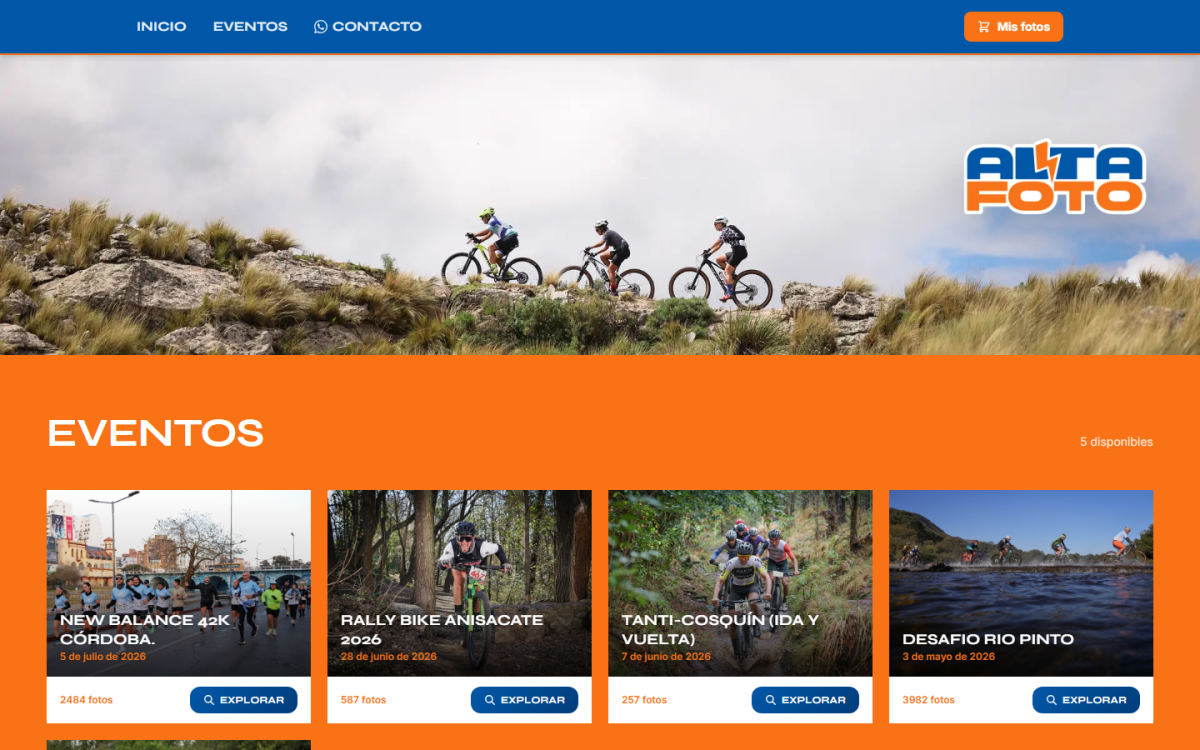
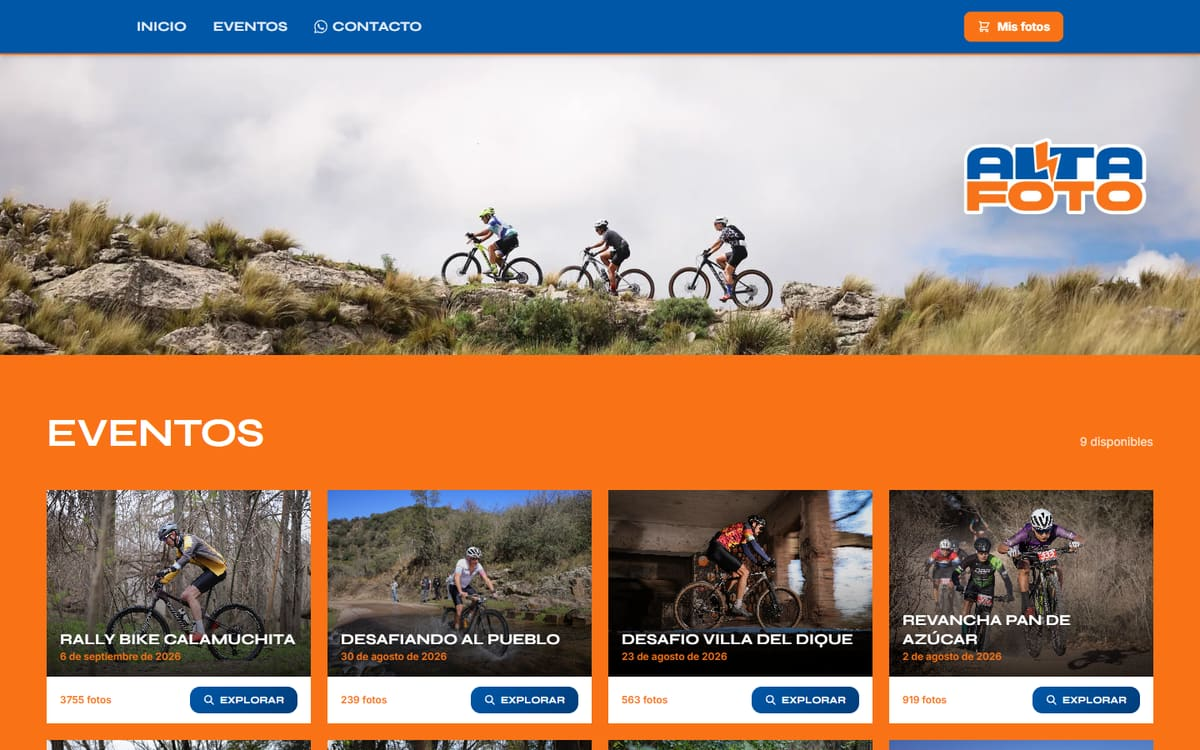
Smooth the project drawer and show each project's landing
The drawer opened with a short slide that stuttered and closed by
vanishing. It now slides in over 420ms on a decelerating curve and slides
out over 260ms before the dialog closes (useDrawerDialog sets
data-closing and waits for the panel's animationend). The pixel sky stops
drawing while a dialog is open, and a project's screenshot is decoded on
hover so it does not land mid-slide. The landing menu and the panel menu
share the same hook. Phones keep the instant open, as before.

Every project with a public landing now has a 1200x750 capture in
public/previews, so its drawer shows it; TapSur has none because it is
login-only. The Halley and Stealth Seller case cards show their landing
above the facts, and both case pages open with it (SiteShot).

diff --git a/src/app/page.tsx b/src/app/page.tsx
@@ -115,6 +115,7 @@ export default async function StudioLanding() {
   const cases = [
     {
       href: "/casos/halley",
+      shot: "/previews/halley-audiovisual.jpg",
       tag: s.caseHalleyTag,
       title: s.caseHalleyTitle,
       body: s.caseHalleyBody,
@@ -126,6 +127,7 @@ export default async function StudioLanding() {
     },
     {
       href: "/casos/stealth-seller",
+      shot: "/previews/stealth-seller.jpg",
       tag: s.caseSsTag,
       title: s.caseSsTitle,
       body: s.caseSsBody,
@@ -336,13 +338,28 @@ export default async function StudioLanding() {
                     <ArrowRight className="h-3.5 w-3.5" aria-hidden />
                   </span>
                 </div>
-                <div className="grid grid-cols-3 gap-px overflow-hidden border border-white/12 bg-white/10">
-                  {c.facts.map((f) => (
-                    <div key={f.label} className="bg-[#131313] p-3 sm:p-5">
-                      <p className="font-display text-xl font-medium tabular-nums text-[#0070F3] sm:text-2xl">{f.value}</p>
-                      <p className="mt-1 text-[11px] text-white/45">{f.label}</p>
-                    </div>
-                  ))}
+                {/* La página real del proyecto, tal como se ve hoy, con los
+                    datos debajo. El link ya se nombra con el título, así que
+                    la imagen no suma texto al lector de pantalla. */}
+                <div className="min-w-0 overflow-hidden border border-white/12 bg-[#131313]">
+                  <div className="overflow-hidden">
+                    <Image
+                      src={c.shot}
+                      alt=""
+                      width={1200}
+                      height={750}
+                      unoptimized
+                      className="block h-auto w-full transition-transform duration-500 ease-out group-hover:scale-[1.02] motion-reduce:transition-none"
+                    />
+                  </div>
+                  <div className="grid grid-cols-3 gap-px border-t border-white/12 bg-white/10">
+                    {c.facts.map((f) => (
+                      <div key={f.label} className="bg-[#131313] p-3 sm:p-5">
+                        <p className="font-display text-xl font-medium tabular-nums text-[#0070F3] sm:text-2xl">{f.value}</p>
+                        <p className="mt-1 text-[11px] text-white/45">{f.label}</p>
+                      </div>
+                    ))}
+                  </div>
                 </div>
               </Link>
             ))}

diff --git a/src/app/globals.css b/src/app/globals.css
@@ -292,23 +292,51 @@ dialog.mobile-nav-dialog::backdrop {
   background: rgb(0 0 0 / 0.8);
 }
 
-/* En DESKTOP (md+): fade del backdrop + slide del panel. */
+/* El scroll del panel no se pasa a la página de atrás al llegar al final. */
+dialog.mobile-nav-dialog > aside {
+  overscroll-behavior: contain;
+}
+
+/* En DESKTOP (md+): el panel entra deslizándose y sale igual.
+   - Entrada larga con curva que desacelera (la de las hojas de iOS): arranca
+     rápido y se asienta suave, en vez de frenar de golpe.
+   - Salida más corta y acelerando: el panel se va, no se arrastra.
+   - Sólo transform y opacity, en capa propia (translate3d + will-change):
+     la anima el compositor sin repintar el contenido.
+   - La salida la dispara data-closing, que pone useDrawerDialog antes de
+     llamar a close(). PixelBackdrop se pausa mientras haya un dialog
+     abierto para no competir por frames. */
 @media (min-width: 768px) {
   dialog.mobile-nav-dialog::backdrop {
-    background: rgb(0 0 0 / 0.7);
-    animation: mobile-nav-fade 240ms ease;
+    background: rgb(0 0 0 / 0.6);
+    animation: drawer-fade-in 420ms cubic-bezier(0.32, 0.72, 0, 1) both;
   }
   dialog.mobile-nav-dialog[open] > aside {
-    animation: mobile-nav-slide 280ms cubic-bezier(0.2, 0.7, 0.2, 1);
+    animation: drawer-slide-in 420ms cubic-bezier(0.32, 0.72, 0, 1) both;
+    will-change: transform;
+  }
+  dialog.mobile-nav-dialog[open][data-closing]::backdrop {
+    animation: drawer-fade-out 260ms cubic-bezier(0.3, 0, 0.8, 0.15) both;
+  }
+  dialog.mobile-nav-dialog[open][data-closing] > aside {
+    animation: drawer-slide-out 260ms cubic-bezier(0.3, 0, 0.8, 0.15) both;
   }
 }
-@keyframes mobile-nav-slide {
-  from { transform: translateX(100%); }
-  to   { transform: translateX(0); }
+@keyframes drawer-slide-in {
+  from { transform: translate3d(100%, 0, 0); }
+  to   { transform: translate3d(0, 0, 0); }
 }
-@keyframes mobile-nav-fade {
+@keyframes drawer-slide-out {
+  from { transform: translate3d(0, 0, 0); }
+  to   { transform: translate3d(100%, 0, 0); }
+}
+@keyframes drawer-fade-in {
   from { opacity: 0; }
   to   { opacity: 1; }
+}
+@keyframes drawer-fade-out {
+  from { opacity: 1; }
+  to   { opacity: 0; }
 }
 @media (prefers-reduced-motion: reduce) {
   dialog.mobile-nav-dialog[open] > aside,

diff --git a/src/components/studio/ProjectItem.tsx b/src/components/studio/ProjectItem.tsx
@@ -1,12 +1,13 @@
 "use client";
 
-import { useEffect, useRef, useState } from "react";
+import { useRef, useState } from "react";
 import Image from "next/image";
 import { ArrowUpRight, CircleDot, Code2, X } from "lucide-react";
 import type { StudioProject } from "@/lib/studio/content";
 import { ACCENT_HEX } from "@/lib/studio/accents";
 import type { Locale, StudioStrings } from "@/lib/studio/i18n";
 import { StackBadge } from "@/components/studio/TechBadges";
+import { useDrawerDialog } from "@/components/useDrawerDialog";
 
 // Glyph del proyecto: el logo real si está cargado, si no un cuadrado
 // con la inicial en el acento del proyecto (mismo criterio que el
@@ -71,12 +72,16 @@ export function ProjectItem({
   const ref = useRef<HTMLDialogElement>(null);
   const [open, setOpen] = useState(false);
 
-  useEffect(() => {
-    const d = ref.current;
-    if (!d) return;
-    if (open && !d.open) d.showModal();
-    if (!open && d.open) d.close();
-  }, [open]);
+  useDrawerDialog(ref, open);
+
+  // La captura se decodifica al pasar por la tarjeta, no durante el slide:
+  // decodificarla a mitad de la animación era lo que la trababa.
+  const warmPreview = () => {
+    if (!preview) return;
+    const img = new window.Image();
+    img.src = preview;
+    img.decode?.().catch(() => {});
+  };
 
   const short = locale === "en" && p.shortEn ? p.shortEn : p.short;
   const long = (locale === "en" && p.longEn ? p.longEn : p.long) || short;
@@ -87,6 +92,8 @@ export function ProjectItem({
       <button
         type="button"
         onClick={() => setOpen(true)}
+        onPointerEnter={warmPreview}
+        onFocus={warmPreview}
         className="group flex h-full flex-col rounded-lg border border-white/12 bg-[#0f0f0f] p-5 text-left transition-colors hover:border-white/25"
       >
         <Glyph p={p} />

diff --git a/src/components/useDrawerDialog.ts b/src/components/useDrawerDialog.ts
@@ -1,0 +1,55 @@
+"use client";
+
+import { useEffect, type RefObject } from "react";
+
+// Abre y cierra un <dialog class="mobile-nav-dialog"> (los drawers del
+// sitio) animando también la salida. showModal()/close() son instantáneos:
+// para que el panel se vaya deslizando, al cerrar se marca el dialog con
+// data-closing (globals.css corre la animación de salida) y recién cuando
+// termina se llama a close().
+//
+// Sólo se anima donde globals.css anima (md+ y sin reduced motion). En
+// teléfono el cierre sigue siendo instantáneo, como la apertura.
+const ANIMATED = "(min-width: 768px) and (prefers-reduced-motion: no-preference)";
+
+export function useDrawerDialog(ref: RefObject<HTMLDialogElement | null>, open: boolean) {
+  useEffect(() => {
+    const d = ref.current;
+    if (!d) return;
+
+    if (open) {
+      d.removeAttribute("data-closing");
+      if (!d.open) d.showModal();
+      return;
+    }
+
+    if (!d.open) return;
+    if (!window.matchMedia(ANIMATED).matches) {
+      d.close();
+      return;
+    }
+
+    const panel = d.querySelector(":scope > aside");
+    let done = false;
+    const finish = () => {
+      if (done) return;
+      done = true;
+      d.removeAttribute("data-closing");
+      d.close();
+    };
+    // animationend burbujea: sólo cuenta la del panel, no la de un hijo.
+    const onEnd = (e: Event) => {
+      if (e.target === panel) finish();
+    };
+
+    d.setAttribute("data-closing", "");
+    panel?.addEventListener("animationend", onEnd);
+    // Por si la animación no corre (pestaña oculta, CSS distinto).
+    const timer = window.setTimeout(finish, 450);
+
+    return () => {
+      panel?.removeEventListener("animationend", onEnd);
+      window.clearTimeout(timer);
+    };
+  }, [ref, open]);
+}

diff --git a/src/components/studio/model-page.tsx b/src/components/studio/model-page.tsx
@@ -98,6 +98,50 @@ export function CostBlock({ from = "USD 50", note }: { from?: string; note: stri
   );
 }
 
+// Captura de la página de inicio del proyecto, tal como se ve hoy. Las
+// capturas viven en public/previews/<slug>.jpg (1200×750, las mismas del
+// drawer de "Otros productos").
+export function SiteShot({
+  src,
+  domain,
+  href,
+}: {
+  src: string;
+  domain: string;
+  href?: string;
+}) {
+  const caption = `Página de inicio de ${domain}`;
+  return (
+    <figure className="reveal mt-10" style={{ animationDelay: "90ms" }}>
+      <div className="overflow-hidden border border-white/12 bg-[#0f0f0f]">
+        <Image
+          src={src}
+          alt={caption}
+          width={1200}
+          height={750}
+          unoptimized
+          className="block aspect-[16/9] h-auto w-full object-cover object-top"
+        />
+      </div>
+      <figcaption className="mt-3 text-[12px] text-white/50">
+        {href ? (
+          <a
+            href={href}
+            target="_blank"
+            rel="noopener noreferrer"
+            className="inline-flex items-center gap-1 transition hover:text-white/85"
+          >
+            {caption}
+            <ArrowUpRight className="h-3.5 w-3.5" aria-hidden />
+          </a>
+        ) : (
+          caption
+        )}
+      </figcaption>
+    </figure>
+  );
+}
+
 export function SectionHead({ n, title }: { n: string; title: string }) {
   return (
     <div className="mb-5 flex items-baseline gap-3">

diff --git a/src/components/MobileNav.tsx b/src/components/MobileNav.tsx
@@ -5,6 +5,7 @@ import Link from "next/link";
 import { usePathname } from "next/navigation";
 import { Menu, X } from "lucide-react";
 import { signOut } from "@/app/auth/actions";
+import { useDrawerDialog } from "@/components/useDrawerDialog";
 
 export type MobileNavItem = { href: string; label: string };
 
@@ -31,13 +32,9 @@ export function MobileNav({
 
   // Native <dialog> escapes containing-block traps created by the
   // header's backdrop-filter — `fixed inset-0` alone gets clipped to
-  // the header. showModal() puts the dialog in the top layer.
-  useEffect(() => {
-    const d = dialogRef.current;
-    if (!d) return;
-    if (open && !d.open) d.showModal();
-    if (!open && d.open) d.close();
-  }, [open]);
+  // the header. showModal() puts the dialog in the top layer; the hook
+  // also animates the way out on desktop.
+  useDrawerDialog(dialogRef, open);
 
   // Close on route change.
   useEffect(() => {

diff --git a/src/app/casos/halley/page.tsx b/src/app/casos/halley/page.tsx
@@ -8,6 +8,7 @@ import {
   BenefitGrid,
   ClosingCta,
   ModelHeader,
+  SiteShot,
   ModelHero,
   NumberedList,
   Prose,
@@ -181,6 +182,12 @@ export default async function CasoHalleyPage() {
           titleA="Cobrarle a 2.000 familias"
           titleB="sin perseguir a ninguna."
           intro="Halley Audiovisual filma egresados en Córdoba. Su operación son 27 colegios y cerca de 2.000 estudiantes, cada uno con un plan de cuotas mensuales que arranca dos o tres años antes del evento. Construí el sistema que sostiene ese ciclo entero: de la primera cuota a la entrega del material."
+        />
+
+        <SiteShot
+          src="/previews/halley-audiovisual.jpg"
+          domain="halleyaudiovisual.com"
+          href="https://halleyaudiovisual.com"
         />
 
         <FactsRow />

diff --git a/src/components/studio/StudioMobileMenu.tsx b/src/components/studio/StudioMobileMenu.tsx
@@ -6,6 +6,7 @@ import { usePathname } from "next/navigation";
 import { Menu, X } from "lucide-react";
 import type { Locale } from "@/lib/studio/i18n";
 import { LangToggle } from "@/components/studio/LangToggle";
+import { useDrawerDialog } from "@/components/useDrawerDialog";
 
 export type StudioNavItem = { href: string; label: string };
 
@@ -31,12 +32,7 @@ export function StudioMobileMenu({
   const dialogRef = useRef<HTMLDialogElement>(null);
   const [open, setOpen] = useState(false);
 
-  useEffect(() => {
-    const d = dialogRef.current;
-    if (!d) return;
-    if (open && !d.open) d.showModal();
-    if (!open && d.open) d.close();
-  }, [open]);
+  useDrawerDialog(dialogRef, open);
 
   useEffect(() => {
     setOpen(false);

diff --git a/src/components/studio/PixelBackdrop.tsx b/src/components/studio/PixelBackdrop.tsx
@@ -88,6 +88,13 @@ export function PixelBackdrop() {
 
     function loop(t: number) {
       if (!running) return;
+      // Con un drawer abierto el cielo queda tapado: no se dibuja, así el
+      // slide del panel tiene todos los frames para él.
+      if (document.querySelector("dialog[open]")) {
+        lastTime = 0;
+        raf = requestAnimationFrame(loop);
+        return;
+      }
       const dt = lastTime ? Math.min((t - lastTime) / 1000, 0.05) : 0;
       if (t - lastTime > 33 || !lastTime) {
         lastTime = t;

diff --git a/src/app/casos/stealth-seller/page.tsx b/src/app/casos/stealth-seller/page.tsx
@@ -13,6 +13,7 @@ import {
   ModelHero,
   Prose,
   SectionHead,
+  SiteShot,
   type Benefit,
   type ModelSection,
 } from "@/components/studio/model-page";
@@ -140,6 +141,8 @@ export default async function CasoStealthSellerPage() {
           Visitar stealthseller.co
           <ArrowUpRight className="h-3.5 w-3.5 text-white/50" aria-hidden />
         </a>
+
+        <SiteShot src="/previews/stealth-seller.jpg" domain="stealthseller.co" />
 
         <FactsRow />
 
